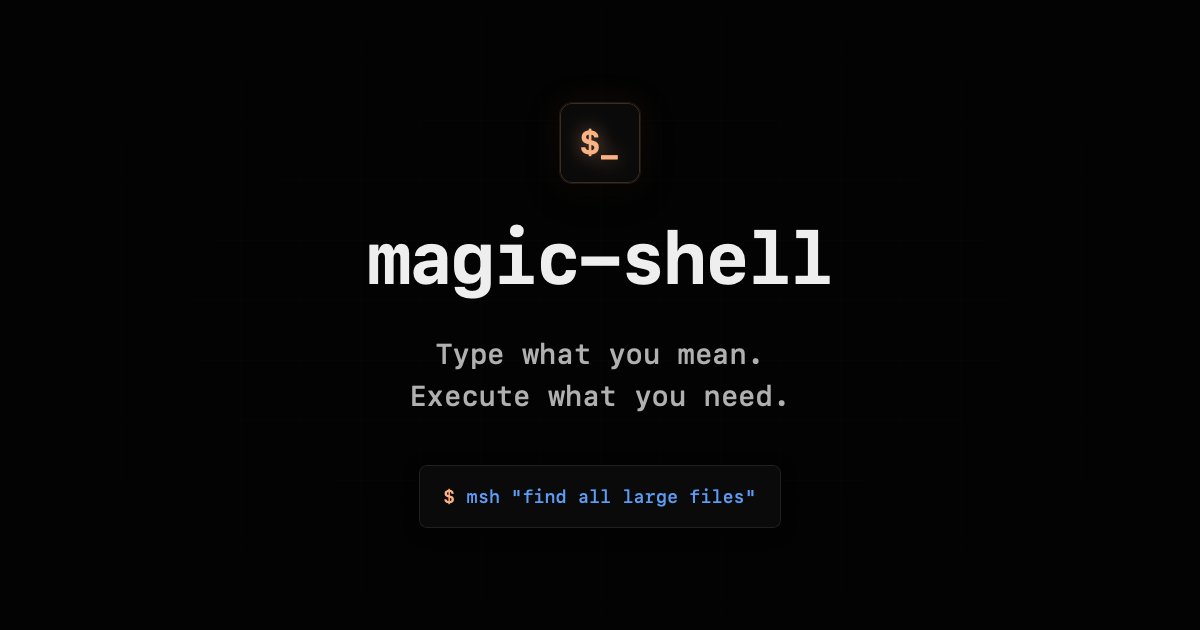
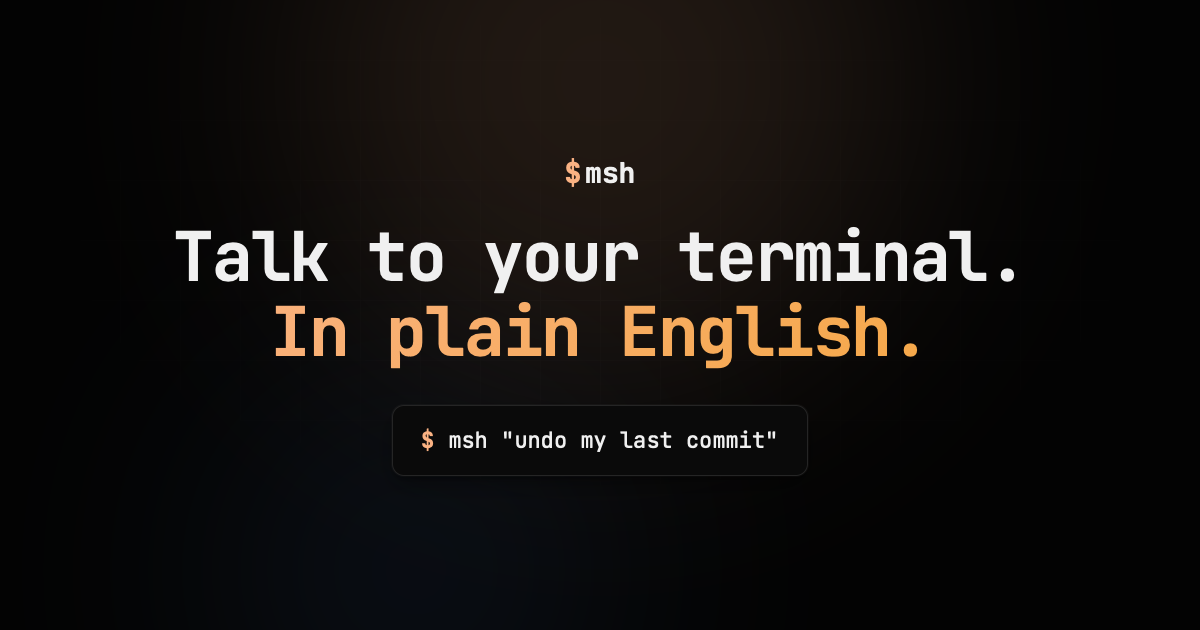
Refresh OG image to match new hero: updated headline and design
Rebuilds og-temp.html with the new two-line headline ('Talk to your
terminal. In plain English.'), $ msh brand mark, gradient orbs and
grid from the hero, gradient highlight on the second line, and the
WCAG AA text ramp. Regenerates og-image.png via capture-og.js.

diff --git a/website/public/og-temp.html b/website/public/og-temp.html
@@ -2,13 +2,16 @@
 <html lang="en">
 <head>
   <meta charset="UTF-8">
+  <link rel="preconnect" href="https://fonts.googleapis.com">
+  <link rel="preconnect" href="https://fonts.gstatic.com" crossorigin>
+  <link href="https://fonts.googleapis.com/css2?family=JetBrains+Mono:wght@400;500;600;700&display=swap" rel="stylesheet">
   <style>
     * {
       margin: 0;
       padding: 0;
       box-sizing: border-box;
     }
-    
+
     body {
       width: 1200px;
       height: 630px;
@@ -16,105 +19,138 @@
       display: flex;
       align-items: center;
       justify-content: center;
-      font-family: 'SF Mono', 'Monaco', 'Menlo', 'Courier New', monospace;
+      font-family: 'JetBrains Mono', 'SF Mono', 'Monaco', monospace;
       overflow: hidden;
       position: relative;
     }
-    
-    /* Subtle grid pattern */
+
+    /* Gradient orbs — matches the hero */
+    .orb {
+      position: absolute;
+      border-radius: 50%;
+      filter: blur(120px);
+      pointer-events: none;
+    }
+    .orb-1 {
+      width: 600px;
+      height: 600px;
+      background: #fab283;
+      top: -220px;
+      left: 50%;
+      transform: translateX(-50%);
+      opacity: 0.12;
+    }
+    .orb-2 {
+      width: 400px;
+      height: 400px;
+      background: #5c9cf5;
+      bottom: -140px;
+      left: 18%;
+      opacity: 0.08;
+    }
+
+    /* Grid pattern — matches the hero */
     body::before {
       content: '';
       position: absolute;
       inset: 0;
-      background-image: 
+      background-image:
         linear-gradient(rgba(37, 37, 37, 0.3) 1px, transparent 1px),
         linear-gradient(90deg, rgba(37, 37, 37, 0.3) 1px, transparent 1px);
       background-size: 60px 60px;
-      opacity: 0.2;
-      mask-image: radial-gradient(ellipse 80% 80% at 50% 50%, black 30%, transparent 70%);
-      -webkit-mask-image: radial-gradient(ellipse 80% 80% at 50% 50%, black 30%, transparent 70%);
+      opacity: 0.25;
+      mask-image: radial-gradient(ellipse 70% 60% at 50% 40%, black 10%, transparent 70%);
+      -webkit-mask-image: radial-gradient(ellipse 70% 60% at 50% 40%, black 10%, transparent 70%);
     }
-    
+
     .container {
       display: flex;
       flex-direction: column;
       align-items: center;
-      gap: 32px;
+      gap: 28px;
       z-index: 1;
       padding: 80px;
+      position: relative;
     }
-    
-    .brand-icon {
-      width: 80px;
-      height: 80px;
-      background: #0a0a0a;
-      border-radius: 12px;
-      display: flex;
-      align-items: center;
-      justify-content: center;
-      border: 1px solid rgba(250, 178, 131, 0.2);
-      box-shadow: 
-        0 0 0 1px rgba(250, 178, 131, 0.1),
-        0 8px 40px rgba(0, 0, 0, 0.7),
-        0 0 40px rgba(250, 178, 131, 0.08);
-    }
-    
-    .icon-text {
-      font-size: 32px;
+
+    /* Brand mark — matches the sticky nav */
+    .brand-mark {
+      display: inline-flex;
+      align-items: baseline;
+      gap: 4px;
+      font-size: 28px;
       font-weight: 700;
-      color: #fab283;
-      text-shadow: 0 0 20px rgba(250, 178, 131, 0.5);
+      letter-spacing: -0.01em;
     }
-    
-    .brand-name {
-      font-size: 72px;
+    .brand-mark .dollar { color: #fab283; }
+    .brand-mark .name { color: #f0f0f0; }
+
+    /* Headline — matches the hero title */
+    .headline {
+      text-align: center;
+      font-size: 68px;
       font-weight: 700;
-      color: #eeeeee;
+      line-height: 1.1;
       letter-spacing: -0.03em;
     }
-    
-    .tagline {
-      font-size: 28px;
-      color: #b0b0b0;
-      text-align: center;
-      line-height: 1.5;
-      font-weight: 400;
+    .headline .line-1 {
+      display: block;
+      color: #f0f0f0;
     }
-    
-    .terminal-preview {
-      margin-top: 16px;
+    .headline .line-2 {
+      display: block;
+      background: linear-gradient(135deg, #fab283 0%, #f5a742 100%);
+      -webkit-background-clip: text;
+      -webkit-text-fill-color: transparent;
+      background-clip: text;
+    }
+
+    /* Terminal preview — matches the demo window */
+    .terminal {
+      margin-top: 8px;
       background: #0a0a0a;
-      border: 1px solid rgba(37, 37, 37, 0.8);
-      border-radius: 8px;
-      padding: 20px 24px;
-      font-size: 18px;
-      color: #b0b0b0;
+      border: 1px solid #252525;
+      border-radius: 12px;
+      padding: 20px 28px;
+      font-size: 22px;
       display: flex;
       align-items: center;
-      gap: 12px;
-      box-shadow: 0 4px 20px rgba(0, 0, 0, 0.5);
+      gap: 14px;
+      box-shadow:
+        0 4px 6px -1px rgba(0, 0, 0, 0.3),
+        0 10px 30px -5px rgba(0, 0, 0, 0.4),
+        0 0 0 1px rgba(255, 255, 255, 0.03);
     }
-    
-    .prompt {
+    .terminal .prompt {
       color: #fab283;
       font-weight: 600;
     }
-    
-    .command {
-      color: #5c9cf5;
+    .terminal .cmd {
+      color: #f0f0f0;
+    }
+    .terminal .arrow {
+      color: #7fd88f;
+    }
+    .terminal .out {
+      color: #b8b8b8;
     }
   </style>
 </head>
 <body>
+  <div class="orb orb-1"></div>
+  <div class="orb orb-2"></div>
   <div class="container">
-    <div class="brand-icon">
-      <span class="icon-text">$_</span>
+    <div class="brand-mark">
+      <span class="dollar">$</span>
+      <span class="name">msh</span>
     </div>
-    <h1 class="brand-name">magic-shell</h1>
-    <p class="tagline">Type what you mean.<br>Execute what you need.</p>
-    <div class="terminal-preview">
+    <h1 class="headline">
+      <span class="line-1">Talk to your terminal.</span>
+      <span class="line-2">In plain English.</span>
+    </h1>
+    <div class="terminal">
       <span class="prompt">$</span>
-      <span class="command">msh "find all large files"</span>
+      <span class="cmd">msh "undo my last commit"</span>
     </div>
   </div>
 </body>